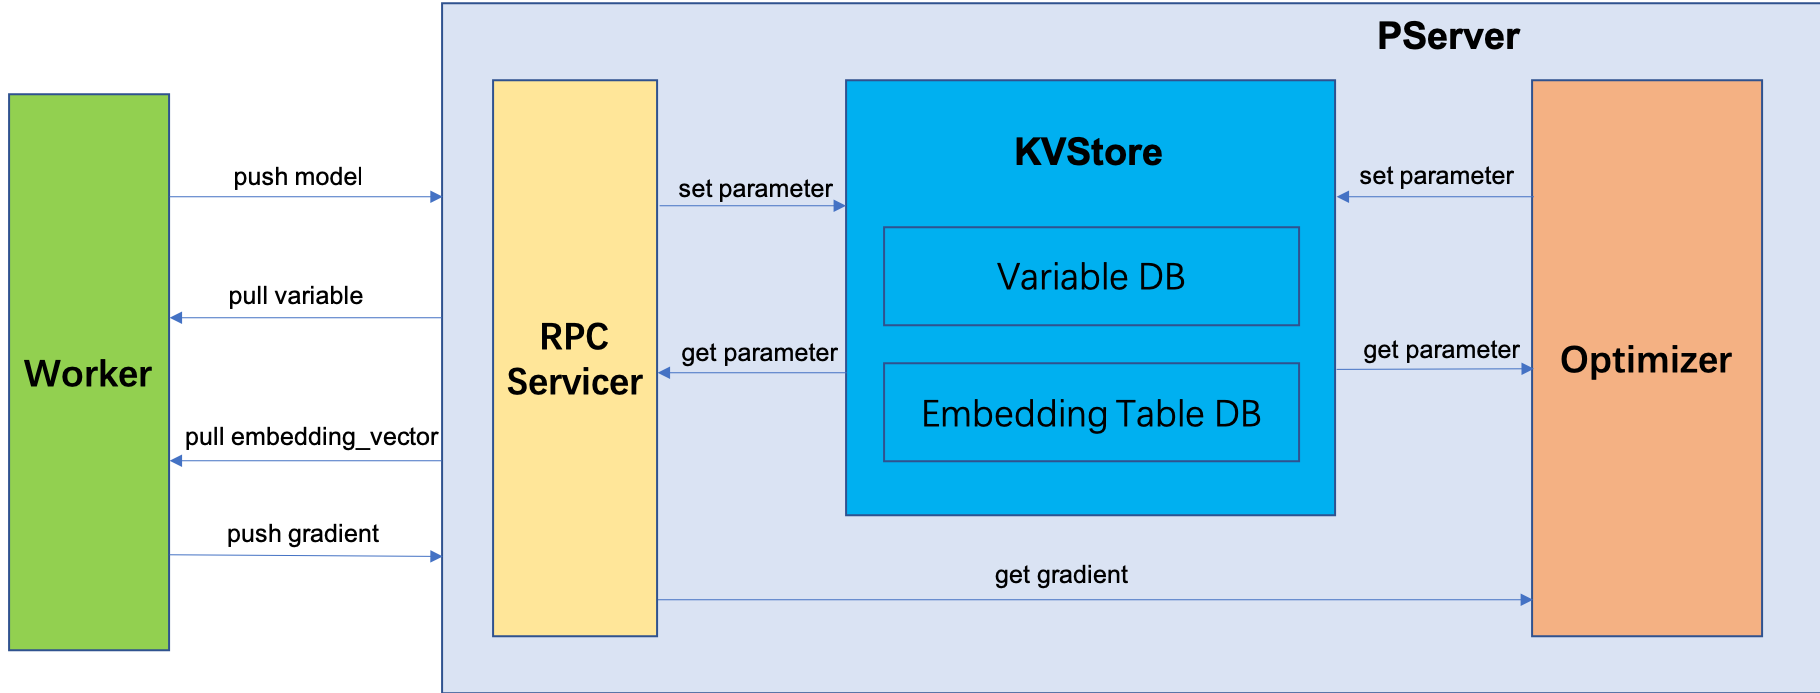
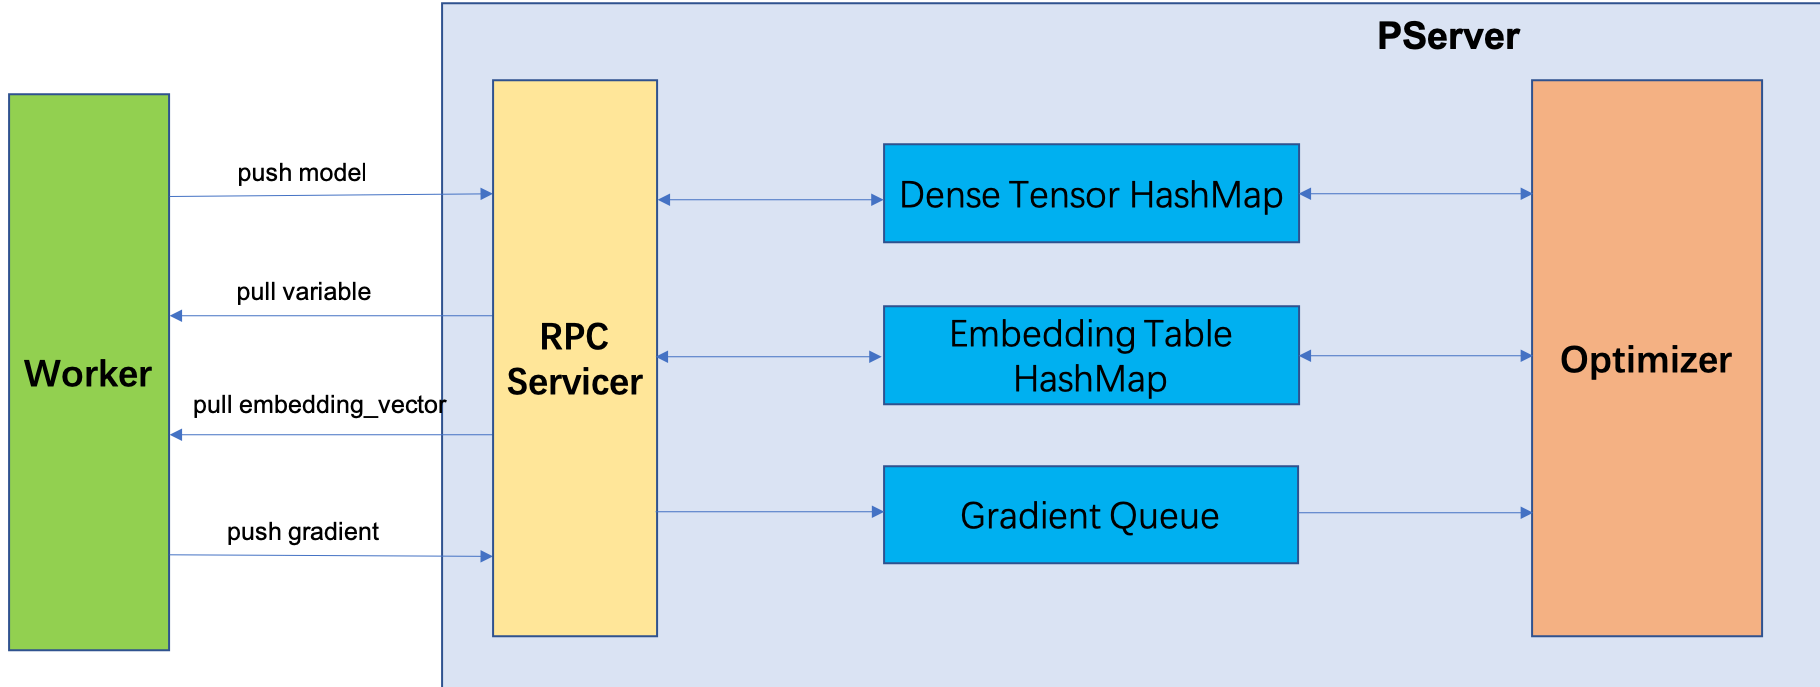
follow comments

diff --git a/docs/designs/ps_design.md b/docs/designs/ps_design.md
@@ -2,18 +2,16 @@
 
 ## Overview
 
-A typical parameter server architecture of data parallelism distributed training system contains two roles:
 
-- parameter server(or PS for short), maintaining the global model, and providing parameter pull/push/optimize/checkpoint service
-- worker, computing gradients of model parameters using local data and pushing gradients to parameter servers.
+Parameter server design is widely used in distributed
+training systems. Both data and workloads
+are distributed over workers, while the servers
+maintain globally shared parameters, represented as dense
+or sparse tensors.
 
-Sharding the model to multiple parameter servers is a common choice. The reasons are as following:
+Many systems use multiple parameter server instances in a job, especially when the model could be large and overruns the memory space of a process. In such cases, we can shard the model and distribute the pieces to multiple parameter server instances. Even if the model is not too big, model sharding prevents the case that a single-node parameter server architecture becomes the bottleneck of communication and computation.
 
-- Sometimes, the model size if out of the memory of a process. For example, many recommending and ranking models take very high-dimensional (and sparse) inputs, thus require large embedding tables.
-- Communication load between workers and parameter servers will be balanced. More parameter servers usually means more network bandwidth.
-- Model optimization could be parallelized on multiple parameter servers.
-
-In addition, we want to launch machine learning jobs in a Kubernetes supported cluster. The pods in Kubernetes are scheduled with priority, and could be preempted at any time. At the same time, hardware failure problem is also nonnegligible in a large scale distributed system. Here, we introduce another role called master to watch the status of worker pods and parameter server pods. It calls Kubernetes API to start or relaunch worker pods and optionally parameter server pods, and scheduling tasks to worker pods.
+In addition, we want to launch machine learning jobs in a Kubernetes supported cluster. The pods in Kubernetes are scheduled with priority, and could be preempted at any time. At the same time, hardware failure problem is also nonnegligible in a large scale distributed system. Here, we introduce another role called master to watch the status of worker pods and parameter server pods. It calls Kubernetes API to start or relaunch worker pods and optionally parameter server pods, and scheduling tasks to worker pods. For more details on the master role, please refer to the [project background](https://github.com/sql-machine-learning/elasticdl#background).
 
 In conclusion, a high preformance distributed parameter server architecture with scalability and fault-tolerance is needed.
 
@@ -46,13 +44,10 @@ Each parameter server pod will store some embedding vectors and dense tensor par
 
 The number of parameter server pods will keep unchanged during a job. We set the priority of parameter server pods higher than worker pods. Thus, worker pods of a lower priority job will be killed first to satisfy another job. If all worker pods of a job are dead , this job is actually stopped. We will restart the job again when the hardware resources are sufficient.
 
-## KVStore
+## Model Data Structure
 
-We use a customized data structure called KVStore to store model parameters in PS. There is a KVStore instance in each PS pod. The KVStore instances from the PS pods form a distributed KVStore, which could be scaled easily to support a model with a large size.
 
-The KVStore needs to support both non-embedding paramteters and embedding table parameters.
-
-Since `tf.keras.optimizer` only accept `tf.Variable` type parameter, to avoid unnecessary memory copy, we save a non-embedding parameter as a `tf.Variable` directly. We use a variable DB to store all the non-embedding parameters, the key is the variable name, the value is the variable itself.
+Since `tf.keras.optimizer` only accept `tf.Variable` type parameter, to avoid unnecessary memory copy, we save a non-embedding parameter as a `tf.Variable` directly. We use a hashmap to store all the non-embedding parameters, the key is the variable name, the value is the variable itself.
 
 However, an embedding table parameter could not be represented by a standard `tf.Variable`. For example, in an online learning case, new item id may come in sometimes. The shape of the embedding table is not determined. Besides, we have to initialize corresponding embedding vector value on the fly for the new item id in the parameter server pod.
 
@@ -86,22 +81,8 @@ Please note that the embedding tables in the parameter seerver pods which have t
 
 Since embedding vectors are lazily initialized in parameter server, `EmbeddingTable` also has `dim` and `initializer` fields. Inside the `get` interface of `EmbeddingTable `, if the id is not in the `vectors` dictionary, the corresponding value will be initialized.
 
-There could be multiple embedding table from different embedding layer. We will create an `EmbeddingTable` instance for each embedding layer. These instances are stored at a dictionary called embedding table DB. The key is embedding layer name, the value is the embedding table itself.
+There could be multiple embedding table from different embedding layer. We will create an `EmbeddingTable` instance for each embedding layer. These instances are stored at another hashmap. The key is embedding layer name, the value is the embedding table itself.
 
-Following is the definition of KVStore:
-
-```python
-class KVStore(object):
-    def __init__(self):
-        self.variable_db = {}
-        self.embedding_table_db = {}
-
-    def get_parameter(self, name):
-        pass
-
-    def set_parameter(self, name, value):
-        pass
-```
 
 ## Model Initialization
 
@@ -148,7 +129,7 @@ message Model {
 }
 ```
 
-Since embedding table parameter is initialized lazily in the PS side, we have to put some meta info defined in `EmbeddingTableInfo` in the model proto message too. The `EmbebeddingTableInfo` is used by a PS pod to create a `EmbeddingTable` instance in KVStore.
+Since embedding table parameter is initialized lazily in the PS side, we have to put some meta info defined in `EmbeddingTableInfo` in the model proto message too. The `EmbebeddingTableInfo` is used by a PS pod to create a `EmbeddingTable` instance in the hashmap.
 
 
 ## Model Optimization
@@ -161,9 +142,9 @@ Since each parameter server pod holds a subset model, it's better to make the op
 
 There are three steps of model optimization:
 
-- Worker pods pull latest model from parameter server pods.
-- Worker pods compute the gradients using local data and push the gradients to parameter server pods.
-- The optimizer in each parameter server pod applies gradients from workers to parameters read from KVStore, and writes parameters back to KVStore.
+1. Worker pods pull latest model from parameter server pods.
+2. Worker pods compute the gradients using local data and push the gradients to parameter server pods.
+3. The optimizer in each parameter server pod applies gradients from workers to parameters read from the hashmap, and writes parameters back to the hasmap.
 
 
 ### Pull Model
@@ -193,7 +174,7 @@ After backward pass, workers will push the gradients to the PS.
 
 ### Model Updating
 
-The optimizer of parameter server is responsible for applying gradients to parameters in KVStore. Embedding table parameter needs to be handled carefully, since it's not a standard `tf.Variable`. We have already implemented an [OptimizeWrapper](https://github.com/sql-machine-learning/elasticdl/blob/develop/elasticdl/python/master/optimizer_wrapper.py) to handle this. We will move it to from master to parameter server part.
+The optimizer of parameter server is responsible for applying gradients to parameters. Embedding table parameter needs to be handled carefully, since it's not a standard `tf.Variable`. We have already implemented an [OptimizeWrapper](https://github.com/sql-machine-learning/elasticdl/blob/develop/elasticdl/python/master/optimizer_wrapper.py) to handle this. We will move it to from master to parameter server part.
 
 The optimizer supports two kinds of parameter updating strategies: synchronous-SGD and asynchronous-SGD.
 
@@ -211,14 +192,6 @@ Since the local model is only a part of the global model, in some circumstance, 
 
 
 ### Short Summary
-
-Let's make a short summary here, the parameter server has three basic components:
-
-| component| functionality |hardware resource|
-| :----  |:----  |:----  |
-|KVStore  | provides distributed storage of model parameters|memory|
-|Optimizer | applies gradients from workers to model parameters|CPU |
-|RPC servicer |servers workers to pull parameters and push gradients | network bandwidth |
 
 Following is the graph that describes model parameters flowing between different roles:
 
